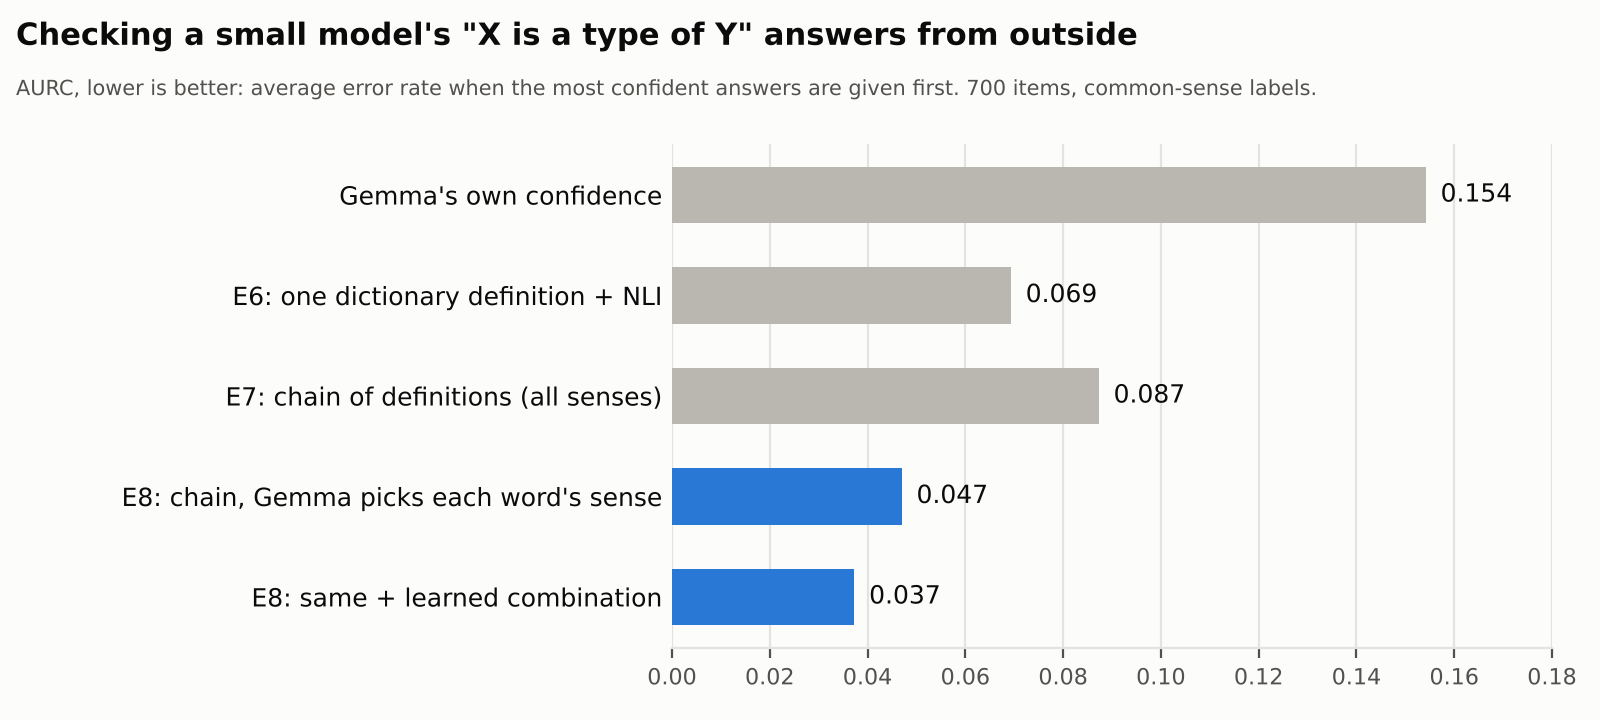
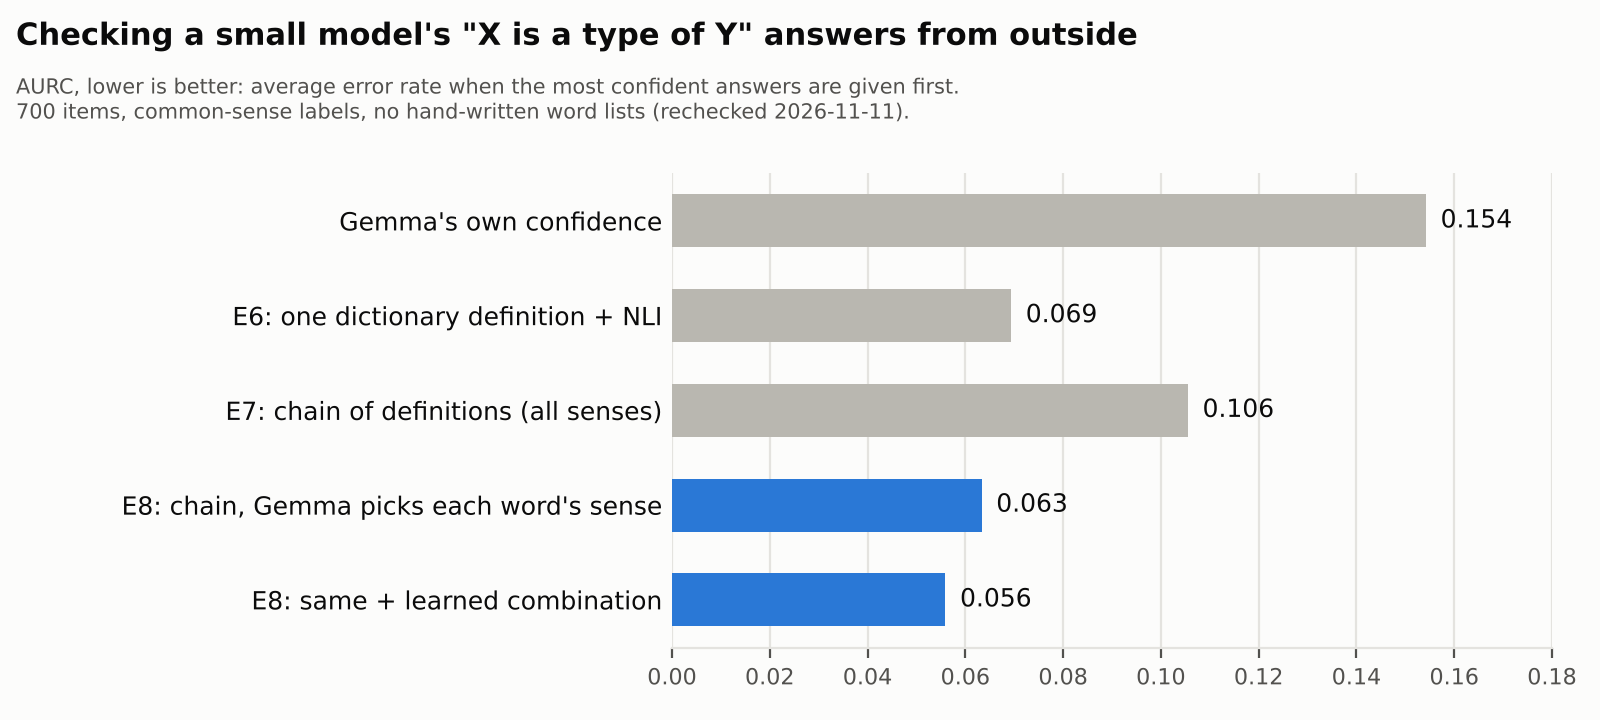
README: shorter opening for first-time readers, corrections in their own section, overview figure with corrected numbers
- Main findings cut to five short points with the current (corrected) numbers; the two 2026-11-11 corrections move to a Corrections section linked from the top.
- Articles move to their own section; Article 11 (E11) added.
- figures/E8/overview_*.png redrawn from results/nolist/E8n (no hand-written word lists); the old figure still showed 0.047/0.037.
- figures/social_preview.png (1280x640) for link previews.

Claude-Session: https://claude.ai/code/session_01SXYQfQo2xCkXRvz7KZjZ7M

diff --git a/analysis/e8/fig_overview.py b/analysis/e8/fig_overview.py
@@ -1,17 +1,19 @@
 """先頭の図：「〜は〜の一種」の700個で、Gemmaの答えを外から確かめる方法ごとのAURC（E6〜E8、小さいほど良い）。
-python3 fig_overview.py → figures/E8/overview_en.png, overview_ja.png（数字は results/E6〜E8 の analysis.json から）"""
+python3 fig_overview.py → figures/E8/overview_en.png, overview_ja.png
+2026-11-13：数字は手書きの語の一覧なしで流し直した results/nolist/E8n/E8n_analysis_lr.json から（2026-11-11 の訂正後。
+E7 の鎖＝方法A（意味を選ばない）、E8＝方法D（Gemma が意味を選ぶ））。"""
 import json, os
 import matplotlib
 matplotlib.use("Agg")
 import matplotlib.pyplot as plt
 from matplotlib import font_manager
 H = os.path.dirname(os.path.abspath(__file__)); R = os.path.join(H, "..", "..", "results")
-e8 = json.load(open(f"{R}/E8/E8_analysis.json"))["methods"]
-e7 = json.load(open(f"{R}/E7/E7_analysis.json"))["methods"]
+e8 = json.load(open(f"{R}/nolist/E8n/E8n_analysis_lr.json"))["methods"]
+e7 = e8
 rows = [  # (英, 日, 値, 強調)
     ("Gemma's own confidence", "Gemmaの自信だけ", e8["1_conf"]["mean"]["aurc_claude"], False),
     ("E6: one dictionary definition + NLI", "E6：辞書の説明文1段＋NLI", e8["3_one_step"]["mean"]["aurc_claude"], False),
-    ("E7: chain of definitions (all senses)", "E7：説明文を3段つなぐ（意味を選ばない）", e7["6_maxprod"]["mean"]["aurc_claude"], False),
+    ("E7: chain of definitions (all senses)", "E7：説明文を3段つなぐ（意味を選ばない）", e7["6_maxprod_A"]["mean"]["aurc_claude"], False),
     ("E8: chain, Gemma picks each word's sense", "E8：つなぐ＋Gemmaが語の意味を選ぶ", e8["6_maxprod_D"]["mean"]["aurc_claude"], True),
     ("E8: same + learned combination", "E8：同じ＋手がかりを学習で合わせる", e8["8_learn_D"]["mean"]["aurc_claude"], True),
 ]
@@ -33,13 +35,13 @@ def draw(lang, path):
     ax.spines["bottom"].set_color(GRID); ax.xaxis.grid(True, color=GRID, lw=0.8); ax.set_axisbelow(True)
     if lang == "en":
         t = "Checking a small model's \"X is a type of Y\" answers from outside"
-        s = "AURC, lower is better: average error rate when the most confident answers are given first. 700 items, common-sense labels."
+        s = "AURC, lower is better: average error rate when the most confident answers are given first.\n700 items, common-sense labels, no hand-written word lists (rechecked 2026-11-11)."
     else:
         t = "小さいAIの「XはYの一種」という答えを外から確かめる"
-        s = "AURC（小さいほど良い）：確かな順に答えた時の誤りの割合の平均。700個、常識の判定。"
+        s = "AURC（小さいほど良い）：確かな順に答えた時の誤りの割合の平均。\n700個、常識の判定、手書きの語の一覧なし（2026-11-11に確かめ直した数字）。"
     fig.text(0.01, 0.97, t, fontsize=11, color=INK, weight="bold", va="top")
-    fig.text(0.01, 0.89, s, fontsize=7.5, color=INK2, va="top")
-    fig.subplots_adjust(left=0.42 if lang == "en" else 0.40, right=0.97, top=0.80, bottom=0.10)
+    fig.text(0.01, 0.895, s, fontsize=7.5, color=INK2, va="top")
+    fig.subplots_adjust(left=0.42 if lang == "en" else 0.40, right=0.97, top=0.76, bottom=0.10)
     fig.savefig(path, facecolor=BG); plt.close(fig)
 os.makedirs(f"{H}/../../figures/E8", exist_ok=True)
 draw("en", f"{H}/../../figures/E8/overview_en.png"); draw("ja", f"{H}/../../figures/E8/overview_ja.png")

diff --git a/README.md b/README.md
@@ -6,17 +6,15 @@ English | [日本語](README_ja.md)
 
 **What this is:** experiments that keep a small language model (Gemma-2 2B) as the "mouth" and check its answers with parts placed outside it: rules, belief propagation (BP), retrieved evidence, dictionary definitions and a small NLI model. Each plan was fixed before its results, and ties and losses are reported as well.
 
-**Main findings so far** (one small model, English, mostly one domain; see Limitations):
+**Main findings so far** (one small model, English, mostly one domain; see [Limitations](#limitations)):
 
-- **A small model is a poor judge but a good helper.** Gemma-2 2B is often confidently wrong on "X is a type of Y" questions. Checking its answer against dictionary definitions with an NLI model cuts the error measure (AURC) from 0.154 to 0.070 (E6).
-- **Give it the narrow job it is good at.** Chaining definitions (granddaughter → person → mammal) fails when a word is read in the wrong sense (64% of chains, E7). When Gemma only picks which sense of each word is meant, it is right in 35 of 37 checked cases and wrong-sense chains fall to 4%. The chain check then reaches AURC 0.047 without training, 0.037 with a learned combination (E8). These figures used hand-written head-noun lists; without them they are 10%, 0.063 and 0.056 (see the second correction below).
-- **On 300 new items** not used for any choice, the checker is clearly better than the model's own confidence (0.039 vs 0.118; 0.046 vs 0.118 without hand-written lists). Its gain over a one-step dictionary check (0.055) is not shown with 300 items.
-- **Where the network (BP) helps, and where it does not.** BP that also doubts the model's own rules beats simply counting violations in taxonomy and disease tests (E2-6, E2-8). It did not beat simpler learned combinations with evidence (E3), large many-loop networks (E4) or dictionary chains (E7, E8). The p-bit method and BP never differed in accuracy (E4).
-- **Correction (2026-11-11): the learned baselines were all linear.** Every "features + learning" baseline in E2 to E8 was logistic regression. Redoing them with a tree-based learner (gradient boosting, `analysis/audit_gb/`) changes three statements: E2-7 (taxonomy: BP's win becomes a tie; geography: BP now loses to the learned combination), E4-2 (the cautious network loses under WordNet labels) and E7 (adding chain scores is no longer clearly best). E8's result holds. Details are marked "Audit (2026-11-11)" below.
-- **Correction (2026-11-11): hand-written word lists.** E7, E8 and the real dictionary check used in E9-1 to E9-3 picked each definition's head noun with hand-written word lists (`PERSON_HEADS`, `OF_HEADS`, `META` and two fixes: for example "one who …" → person, "a kind of X" → X; audit: `plans/audit_hand_lists.md`). We reran them without any such list: head-noun candidates come from grammar only (the head of the first noun chunk and the object of its "of"), and the NLI score of the step chooses among them (`analysis/nolist/`). The rules for "holds" were fixed before the runs. **Held:** Gemma's sense choice cuts wrong-sense chains (72% → 10%), the chain + learner beats Gemma's confidence on the 300 new items (0.046 vs 0.118), chaining breaks fewer right answers (40% → 31%), and every E9 conclusion about the network. **Not held:** the chain scores (0.047 → 0.063 without training, 0.037 → 0.056 learned), the clear gain over E6's features with gradient boosting (only 3 of 5 splits by 20%), the dictionary's hit rate on true claims (88% → 83%), and E9-3's "checking every claim with the dictionary is best" (now best in 1 of 12 conditions; gradient boosting is better). Details: [Recheck without hand-written word lists](#recheck-without-hand-written-word-lists-2026-11-11).
-- **Even when only a few answers can be checked, the network does not beat a strong learner (E9).** Checking 2–10% of the claims with the dictionary and spreading the checks along the model's rules with BP first looked better than logistic regression (E9-1), but against gradient boosting, and on all 77,326 claims with no candidate selection, the network lost in every condition (E9-3). Its remaining role is small: finishing a learner's answers with the rules gave 5–20% lower AURC, below the threshold set in advance.
-- **Other questions (E10): showing sentences that state the answer helps; where they come from matters less.** On part-whole questions ("A wheel is a part of a car."), showing Gemma general sentences from GenericsKB that mention both words lowers AURC from 0.068 to 0.039, and sentences Gemma writes itself do about as well (0.044, a tie). Dictionary definitions do not help, and on "X is a type of Y" no resource beat Gemma's confidence. E10's first gains on part-whole and geography used hand-chosen items and hand-written lists and did not repeat on items chosen by rule (E10-1). Details: [E10](#e10-do-outside-checks-carry-over-to-other-questions-part-whole-disease-geography).
-- **Combining every signal in one learner helps; deeper chains and box embeddings alone do not (E11).** Giving Gemma's answers, the dictionary chain, the outside sentences and a box embedding to one gradient-boosting learner beats the learner on Gemma's answers alone on "is a type of" (AURC 0.017 → 0.004), part-whole (0.062 → 0.039) and disease (0.025 → 0.016), and ties on geography; on part-whole and disease it ties under Gemini's labels. The pieces are not new, and the box adds nothing outside "is a type of". Details: [E11](#e11-fixing-e8s-weak-points-and-combining-every-signal-2026-11-12).
+- **A small model is a poor judge but a good helper.** Gemma-2 2B is often confidently wrong on "X is a type of Y". Checking its answer against dictionary definitions with an NLI model cuts the error measure (AURC, lower is better) from 0.154 to 0.070 (E6).
+- **Give it only the narrow job it is good at.** Chaining definitions (granddaughter → person → mammal) breaks when a word is read in the wrong sense. When Gemma only picks which sense of each word is meant, wrong-sense chains fall from 72% to 10%, and on 300 new items the chain check with a learner beats Gemma's own confidence (0.046 vs 0.118) (E7, E8, rechecked without hand-written lists).
+- **Combining every signal in one learner helps; deeper chains and box embeddings alone do not (E11).** Gemma's answers, the dictionary chain, outside sentences and a box embedding in one gradient-boosting learner beat the learner on Gemma's answers alone on "is a type of" (0.017 → 0.004), part-whole (0.062 → 0.039) and disease (0.025 → 0.016); geography ties, and part-whole and disease tie under Gemini's labels.
+- **Showing sentences that state the answer helps on part-whole questions (E10)**, whether they come from GenericsKB (0.068 → 0.039) or Gemma writes them itself (0.044, a tie).
+- **The network (BP) did not become the main part.** BP that also doubts the model's rules beat counting violations in taxonomy and disease tests (E2-6, E2-8), but it did not beat a strong learner where labeled data existed (E3, E4, E9). The p-bit method and BP never differed in accuracy (E4).
+
+Ties and losses are reported in every section. Two corrections (2026-11-11) changed earlier numbers; they are listed in [Corrections](#corrections-2026-11-11).
 
 ![Checking a small model's "X is a type of Y" answers from outside (E6–E8)](figures/E8/overview_en.png)
 
@@ -25,12 +23,28 @@ English | [日本語](README_ja.md)
 ```bash
 git clone https://github.com/mst-design2020/akane-e2-experiments.git && cd akane-e2-experiments/analysis/e8
 pip install numpy scipy scikit-learn
-python e8_analyze.py ../../data/E8_chains_nli.json out.json   # about 5 minutes; prints the AURC table, e.g. 0.037 for the learned chain check
+python e8_analyze.py ../../data/E8_chains_nli.json out.json   # about 5 minutes; prints the AURC table, e.g. 0.037 for the learned chain check (this saved run used the original hand-written lists; without them it is 0.056, see analysis/nolist/)
 ```
 
 `python check_formulas_e8.py ../../data/E8_chains_nli.json` (about 5 seconds) checks the code against the formulas below. Tested in a fresh Python 3.13 environment.
 
-All experiments in one table: [Results at a glance](#results-at-a-glance). Each experiment's plan and results are in `plans/` (Japanese).
+All experiments in one table: [Results at a glance](#results-at-a-glance). Each experiment's plan and results are in `plans/` (Japanese). Articles explaining each step (Japanese): [Articles](#articles-japanese).
+
+Author: Masaya Kato (M.S.T. Design, Saiki, Oita, Japan) https://mst-design.jp/ · ORCID https://orcid.org/0009-0001-6803-654X · DOI https://doi.org/10.5281/zenodo.24045799
+
+## AKANE Architecture in short
+
+The idea is to use a language model as the "mouth" and to place the checking outside the model. The model answers first. Then an outside system checks whether the answers are consistent with a large memory and with rules. In the long run, we want to hand this checking computation to physical parts such as p-bits (probabilistic bits that flip between 0 and 1).
+The experiments here test the smallest version of that outside checker. More about the overall research: https://mst-design.jp/research/ (Japanese)
+
+## Corrections (2026-11-11)
+
+Both corrections were found by our own audit. The numbers in the findings above already use the corrected runs.
+
+- **Correction (2026-11-11): the learned baselines were all linear.** Every "features + learning" baseline in E2 to E8 was logistic regression. Redoing them with a tree-based learner (gradient boosting, `analysis/audit_gb/`) changes three statements: E2-7 (taxonomy: BP's win becomes a tie; geography: BP now loses to the learned combination), E4-2 (the cautious network loses under WordNet labels) and E7 (adding chain scores is no longer clearly best). E8's result holds. Details are marked "Audit (2026-11-11)" below.
+- **Correction (2026-11-11): hand-written word lists.** E7, E8 and the real dictionary check used in E9-1 to E9-3 picked each definition's head noun with hand-written word lists (`PERSON_HEADS`, `OF_HEADS`, `META` and two fixes: for example "one who …" → person, "a kind of X" → X; audit: `plans/audit_hand_lists.md`). We reran them without any such list: head-noun candidates come from grammar only (the head of the first noun chunk and the object of its "of"), and the NLI score of the step chooses among them (`analysis/nolist/`). The rules for "holds" were fixed before the runs. **Held:** Gemma's sense choice cuts wrong-sense chains (72% → 10%), the chain + learner beats Gemma's confidence on the 300 new items (0.046 vs 0.118), chaining breaks fewer right answers (40% → 31%), and every E9 conclusion about the network. **Not held:** the chain scores (0.047 → 0.063 without training, 0.037 → 0.056 learned), the clear gain over E6's features with gradient boosting (only 3 of 5 splits by 20%), the dictionary's hit rate on true claims (88% → 83%), and E9-3's "checking every claim with the dictionary is best" (now best in 1 of 12 conditions; gradient boosting is better). Details: [Recheck without hand-written word lists](#recheck-without-hand-written-word-lists-2026-11-11).
+
+## Articles (Japanese)
 
 Every number in the articles below comes from files in this repository. Articles (Japanese):
 
@@ -44,13 +58,7 @@ Every number in the articles below comes from files in this repository. Articles
 - Article 8: E4 (second half) and E5, re-checking the answer key and the cost of the model's own rules. https://note.com/mst_design2020/n/n222a0ecf386d (Zenn, E4 and E5: https://zenn.dev/mst_design2020/articles/545424bd00f46f)
 - Article 9: E6 to E8, dictionary definitions and word senses. https://note.com/mst_design2020/n/nde0fb5abc0aa (Zenn: https://zenn.dev/mst_design2020/articles/5d3feab2c2fff8)
 - Article 10: E9 and E10, the network's role and outside checks on other questions. https://note.com/mst_design2020/n/ndb76756d6b3e (Zenn, E9: https://zenn.dev/mst_design2020/articles/804eba1639b569; E10: https://zenn.dev/mst_design2020/articles/50e211cbd882af)
-
-Author: Masaya Kato (M.S.T. Design, Saiki, Oita, Japan) https://mst-design.jp/ · ORCID https://orcid.org/0009-0001-6803-654X · DOI https://doi.org/10.5281/zenodo.24045799
-
-## AKANE Architecture in short
-
-The idea is to use a language model as the "mouth" and to place the checking outside the model. The model answers first. Then an outside system checks whether the answers are consistent with a large memory and with rules. In the long run, we want to hand this checking computation to physical parts such as p-bits (probabilistic bits that flip between 0 and 1).
-The experiments here test the smallest version of that outside checker. More about the overall research: https://mst-design.jp/research/ (Japanese)
+- Article 11: E11, combining every signal in one learner. https://note.com/mst_design2020/n/n8ca2afb0ac35
 
 ## E2: rules written by the model, checked with belief propagation
 
